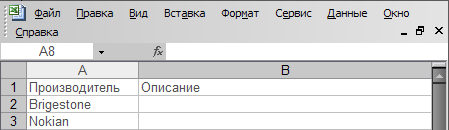
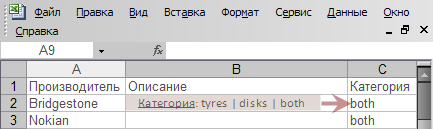
Fixes: 1. При удалении производителя, удаляются все связанные с ним модели шин и дисков. При удалении моделей, удаляются связанные шины-диски. 2. В таблице прозводителей появилось поле type: tyres | disks 3. В поиске при выборе производителя шин, если есть такой же производитель дисков, он не будет 

Changed region(s): [[0.0, 0.0, 1.0, 1.0], [0.7806, 0.8992, 0.8707, 0.9922]]

diff --git a/include/manfr.php b/include/manfr.php
@@ -10,23 +10,28 @@
 require_once 'mysql.php';
 require_once 'utils.php';
 
-function add_manfr ($name, $description) {
-    $sql = "INSERT INTO `manufacturers` (`name`, `description`) VALUES ('$name', '$description')";
+function add_manfr ($name, $description, $type) {
+    $sql = "INSERT INTO `manufacturers` (`name`, `description`, `type`) VALUES ('$name', '$description', '$type')";
     
     return db_qquery ($sql);
     //db_id ();
 }
 
-function add_manfr_csv ($name, $description) {
-    $sql = "INSERT INTO `manufacturers` (`name`, `description`) VALUES ('$name', '$description')";
+function add_manfr_csv ($name, $description, $type) {
+    $sql = "INSERT INTO `manufacturers` (`name`, `description`, `type`) VALUES ('$name', '$description', '$type')";
     
     db_qquery ($sql);
     return mysql_affected_rows ();
 }
 
-function select_manfrs ($full = false) {
-    $fields = "name, id, description";
-    $sql = "SELECT %s FROM `manufacturers` WHERE 1 ORDER BY name ASC";
+function select_manfrs ($full = false, $type = null) {
+    $fields = "name, id, type, description";
+    $sql = "SELECT %s FROM `manufacturers` ";
+    
+    if (!is_null ($type))
+        $sql .= "WHERE `type` = '$type' OR `type` = 'both'";
+    
+    $sql .= "ORDER BY name ASC";
     
     if (paginator_works () && $full) {
         paginator_setTotal (db_result(sprintf ($sql, 'COUNT(*)')));
@@ -39,7 +44,7 @@ function select_manfrs ($full = false) {
 }
 
 function select_manfrs_byid ($id) {
-    $sql = "SELECT name, description, id FROM `manufacturers` WHERE id = '$id'";
+    $sql = "SELECT name, description, type, id FROM `manufacturers` WHERE id = '$id'";
     
     return db_query1 ($sql);
 }
@@ -50,8 +55,8 @@ function delete_manfr ($id) {
     return db_qquery ($sql);
 }
 
-function edit_manfr ($id, $name, $description = null) {
-    $sql = "UPDATE `manufacturers` SET `name` = '$name', `description` = '$description' WHERE `id` = '$id' LIMIT 1";
+function edit_manfr ($id, $name, $description = null, $type = null) {
+    $sql = "UPDATE `manufacturers` SET `name` = '$name', `description` = '$description', `type` = '$type' WHERE `id` = '$id' LIMIT 1";
     
     return db_qquery ($sql);
 }

diff --git a/include/utils.php b/include/utils.php
@@ -5,7 +5,7 @@
 **                      u7@2007
 **  
 **          utils.php
-**          LastMod: 21:16 04.03.2007
+**          LastMod: 19:30 22.03.2007
 ** *********************************/
 require_once 'buttons.php';
 
@@ -28,9 +28,9 @@ function arr2ors ($arr, $enum_param) {
         if (substr($str, -3) == ' OR') $str = substr_replace ($str, '', -3);
         $str .= ")";
         return $str;
-    } elseif (is_string($arr)) 
+    } elseif (is_string($arr)) {
         return " AND $enum_param = '$arr'";
-   else
+    } else
         return '';
 }
 
@@ -66,12 +66,28 @@ function fill_tpl_list (&$tpl, $block, $arr, $value = null) {
 function check2arr ($arr) {
     $ret = array ();
     foreach ($arr as $val)
-        if (isset ($_POST[$val]))
+        if (isset ($_REQUEST[$val]))
             $ret[$val] = true;
         /*else
             $ret[$val] = false;*/
     if (count($ret) == 0) $ret = null;
     return $ret;
+}
+
+function parseChecks (&$tpl, $block, $checks) {
+    $count = 0;
+    foreach ($checks as $check) {
+        if (isset ($_REQUEST [$check])) {
+            $tpl->parse ($block . '.check_' . $check);
+            $count++;
+        }
+    }
+    
+    if ($count == 0) {
+        foreach ($checks as $check) {
+            $tpl->parse ($block . '.check_' . $check);
+        }
+    }
 }
 
 function tableout ($result, &$tpl, $url) {

diff --git a/index.php b/index.php
@@ -5,7 +5,7 @@
 **                      u7@2007
 **  
 **          index.php
-**          LastMod: 17:40 19.02.2007
+**          LastMod: 19:04 22.03.2007
 ** *********************************/
 require_once 'include/config.php';
 require_once 'include/tyres.php';
@@ -18,15 +18,18 @@ require_once 'include/paginator.php';
 
 $tpl = new XTemplate ('templates/main.tpl');
 
-$tpl->assign ('manufacturer', fill_lists ('manufacturer', select_manfrs ()));
+$tpl->assign ('tmanufacturer', fill_lists ('tmanufacturer', select_manfrs (false, 'tyres')));
 $tpl->assign ('width', fill_lists ('width', select_twidths ()));
 $tpl->assign ('height', fill_lists ('height', select_theights ()));
 $tpl->assign ('radius', fill_lists ('radius', select_tradiuses ()));
+parseChecks ($tpl, 'main.searchfields.tyres', array ('summer', 'winter', 'spiked'));
 $tpl->parse ('main.searchfields.tyres');
 
+$tpl->assign ('dmanufacturer', fill_lists ('dmanufacturer', select_manfrs (false, 'disks')));
 $tpl->assign ('holes', fill_lists ('holes', select_dholes ()));
 $tpl->assign ('distance', fill_lists ('distance', select_ddistances ()));
 $tpl->assign ('radius', fill_lists ('radius', select_dradiuses ()));
+parseChecks ($tpl, 'main.searchfields.disks', array ('solid', 'forged', 'pressed'));
 $tpl->parse ('main.searchfields.disks');
 
 $tpl->parse ('main.searchfields');

diff --git a/adminpages/search.php b/adminpages/search.php
@@ -5,17 +5,18 @@
 **                      u7@2007
 **  
 **          search.php
-**          LastMod: 23:57 02.03.2007
+**          LastMod: 19:04 22.03.2007
 ** *********************************/
 
 // index page
 function index_page (&$tpl) {
-    $tpl->assign ('manufacturer', fill_lists ('manufacturer', select_manfrs ()));
+    $tpl->assign ('tmanufacturer', fill_lists ('tmanufacturer', select_manfrs (false, 'tyres')));
     $tpl->assign ('width', fill_lists ('width', select_twidths ()));
     $tpl->assign ('height', fill_lists ('height', select_theights ()));
     $tpl->assign ('radius', fill_lists ('radius', select_tradiuses ()));
     $tpl->parse ('main.panel.searchfields.tyres');
 
+    $tpl->assign ('dmanufacturer', fill_lists ('dmanufacturer', select_manfrs (false, 'disks')));
     $tpl->assign ('holes', fill_lists ('holes', select_dholes ()));
     $tpl->assign ('distance', fill_lists ('distance', select_ddistances ()));
     $tpl->assign ('radius', fill_lists ('radius', select_dradiuses ()));

diff --git a/include/validators.php b/include/validators.php
@@ -5,7 +5,7 @@
 **                      u7@2007
 **  
 **          validators.php
-**          LastMod: 17:40 19.02.2007
+**          LastMod: 15:47 16.03.2007
 ** *********************************/
 function vld_notnull ($value) {
     if (strlen(trim($value)) == 0)
@@ -63,6 +63,19 @@ function vld_material ($value) {
         case 'solid':
         case 'forged':
         case 'pressed':
+            return true;
+        break;
+        default:
+            return false;
+        break;
+    }
+}
+
+function vld_types ($value) {
+    switch ($value) {
+        case 'tyres':
+        case 'disks':
+        case 'both':
             return true;
         break;
         default:

diff --git a/adminpages/adminPage.php b/adminpages/adminPage.php
@@ -5,7 +5,7 @@
 **                      u7@2007
 **  
 **          adminPage.php
-**          LastMod: 23:57 02.03.2007
+**          LastMod: 15:48 16.03.2007
 ** *********************************/
 if (!defined ('ADMIN_ACCESS')) die ('Hack attempt');
 
